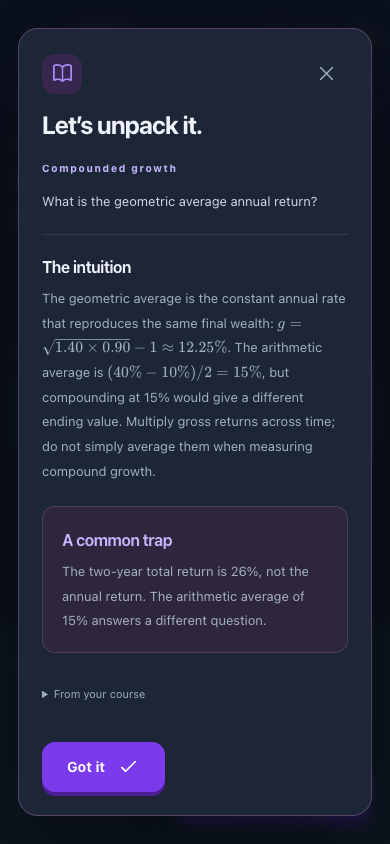
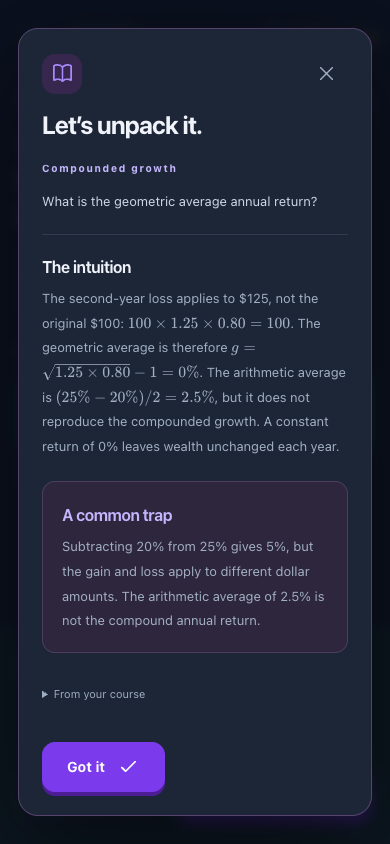
Codex: simplify two practice calculations
Use whole-number answers for questions 15.1 and 18.1. New question IDs preserve earlier records without reusing saved feedback for different inputs.

Changed region(s): [[0.0923, 0.3389, 0.8923, 0.7393]]

diff --git a/practice/sw-assets.js b/practice/sw-assets.js
@@ -1,6 +1,6 @@
 // Generated by npm run pwa:assets. Commit this with every app/content change.
 self.FINPATH_ASSETS = {
-  "version": "d1d615655cbe0619",
+  "version": "cad0762fbbbf4d09",
   "files": [
     {
       "path": "index.html",
@@ -88,14 +88,14 @@ self.FINPATH_ASSETS = {
     },
     {
       "path": "courses/corporate-finance/course.json",
[2 lines of base64/hex data omitted]
       "bytes": 4556,
       "shell": true
     },
     {
       "path": "courses/corporate-finance/lec15-capital-markets.json",
[1 lines of base64/hex data omitted]
-      "bytes": 7049,
[1 lines of base64/hex data omitted]
+      "bytes": 7119,
       "shell": false
     },
     {
@@ -112,8 +112,8 @@ self.FINPATH_ASSETS = {
     },
     {
       "path": "courses/corporate-finance/lec18-capm.json",
[1 lines of base64/hex data omitted]
-      "bytes": 8033,
[1 lines of base64/hex data omitted]
+      "bytes": 8014,
       "shell": false
     },
     {

diff --git a/practice/tests/verify_math.py b/practice/tests/verify_math.py
@@ -7,26 +7,28 @@ root = Path(__file__).resolve().parents[1] / 'courses/corporate-finance'
 course = json.loads((root / 'course.json').read_text())
 questions = {q['id']: q for u in course['units'] for f in u['lessons'] for q in json.loads((root / f['file']).read_text())['questions']}
 
-compound = (math.sqrt(1.40 * .90) - 1) * 100
+compound = (math.sqrt(1.25 * .80) - 1) * 100
+assert compound == int(compound)
 no_price = 1 / 1.25 - .25
-capm = 3 + 1.4 * (9 - 3)
+capm = 3 + 2 * (9 - 3)
+assert capm == int(capm)
 checks = {
-    'lec15-compound-return': round(compound, 2),
+    'lec15-compound-round-trip': compound,
     'lec16-no-price': no_price,
     'lec16-replication': 800 * .25 + 200 * no_price,
-    'lec18-required-return': capm,
-    'lec18-alpha': 13.4 - capm,
+    'lec18-cost-equity': capm,
+    'lec18-alpha': 13.4 - (3 + 1.4 * (9 - 3)),
 }
 for name, answer in checks.items():
     assert math.isclose(questions[name]['answer'], answer, abs_tol=1e-12), (name, answer)
 assert set(checks) == {key for key, q in questions.items() if q['type'] == 'numerical'}
-assert math.isclose(100 * 1.4 * .9, 126)
-assert (40 - 10) / 2 == 15
-assert not math.isclose(100 * 1.15**2, 126)
+assert math.isclose(100 * 1.25 * .8, 100)
+assert (25 - 20) / 2 == 2.5
+assert not math.isclose(100 * 1.025**2, 100)
 assert math.isclose(1 - .85, .15)
 assert math.isclose((.25 + no_price) * 1.25, 1)
 assert 800 * 1 + 200 * 0 == 800 and 800 * 0 + 200 * 1 == 200
-assert math.isclose(capm - 3, 8.4)
+assert math.isclose(capm - 3, 12)
 assert 3 + .5 * 6 == 6 < 10 < 12 == 3 + 1.5 * 6
 assert questions['lec18-project-hurdle']['answer'] == 'reject'
 print('Verified all five numeric answers, compounding versus arithmetic means, arbitrage profit, both replication states, CAPM premiums and project hurdles.')

diff --git a/practice/docs/verification.md b/practice/docs/verification.md
@@ -34,12 +34,12 @@ The instructor workspace has existing edits in the full Lectures 16 and 18. All 
 ## Content choices
 
 - Five focused questions per lecture target approximately 3–5 minutes, including short feedback. The optional detailed explanations may take longer.
-- Lecture 15 distinguishes compound annual return, arithmetic averages, and cumulative return; the new +40%/−10% example compounds to 26% total and approximately 12.25% annually.
+- Lecture 15 distinguishes compound annual return, arithmetic averages, and cumulative return; the +25%/−20% example takes $100 to $125 and back to $100, giving exactly 0% compounded annually versus a 2.5% arithmetic average.
 - Lecture 16 states immediate redemption and funding assumptions for arbitrage. YES/NO claims settle at the same future date, so their prices sum to the discounted payoff. The $0.25/$0.55 state prices imply a $310 replicating value for $800/$200 terminal payoffs. Prices are not identified with physical probabilities.
 - Lecture 17 distinguishes common risk in a local insurance pool from systematic risk relative to global markets. Stock count alone does not establish diversification. Corporate diversification alone does not establish positive NPV.
-- Lecture 18 uses hypothetical inputs: 3% risk-free, 9% expected market return, beta 1.4, a required return of 11.4%, and 2 percentage points of alpha for a 13.4% forecast. The all-equity project example states conventional cash flows and compares its 10% IRR with its own 12% hurdle, not the parent’s 6% rate.
+- Lecture 18.1 uses hypothetical inputs of 3% risk-free, 9% expected market return, and beta 2, giving a whole-number required return of 15%. The separate alpha exercise uses beta 1.4 and a 13.4% forecast, giving 2 percentage points of alpha above its 11.4% benchmark. The all-equity project example states conventional cash flows and compares its 10% IRR with its own 12% hurdle, not the parent’s 6% rate.
 - Beta is an average market sensitivity, not an exact daily multiplier. Risk-premium statements are qualified as the systematic-risk/CAPM benchmark. No live company estimates are invented.
-- Replacement content uses new lesson/question IDs. The previous curriculum fixture checks that earlier XP, scores, answer history, completed-session records, and full unfinished attempts survive the change. Old completions do not mark new topics complete.
+- Replacement content uses new lesson/question IDs. Revised calculation inputs in 15.1 and 18.1 also receive new question IDs so saved feedback is never paired with a changed answer. The previous curriculum fixture checks that earlier XP, scores, answer history, completed-session records, and full unfinished attempts survive the change. Old completions do not mark new topics complete.
 
 ## Checks performed
 
